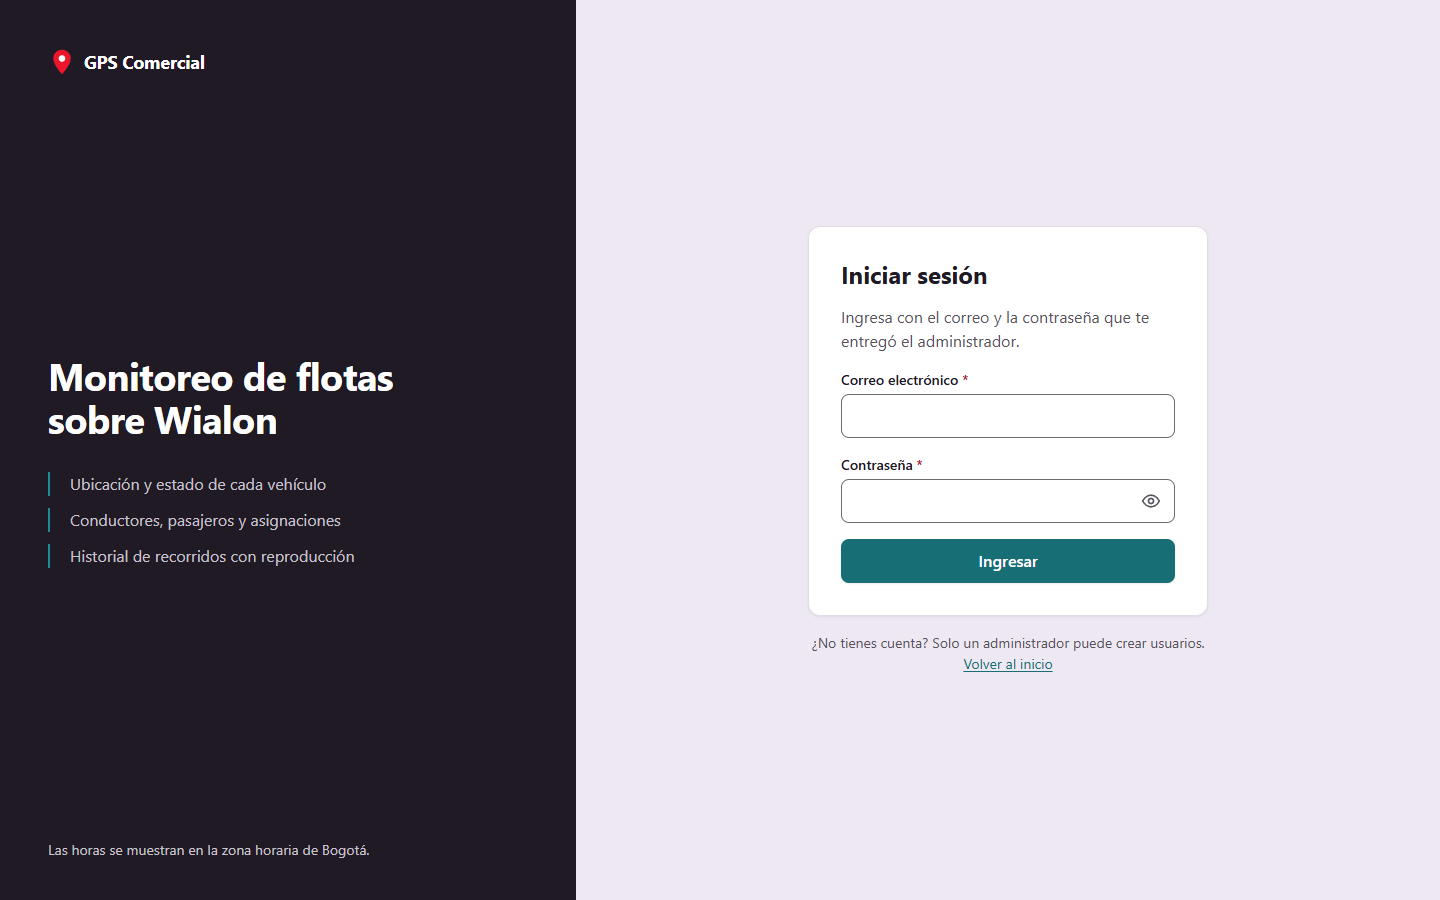
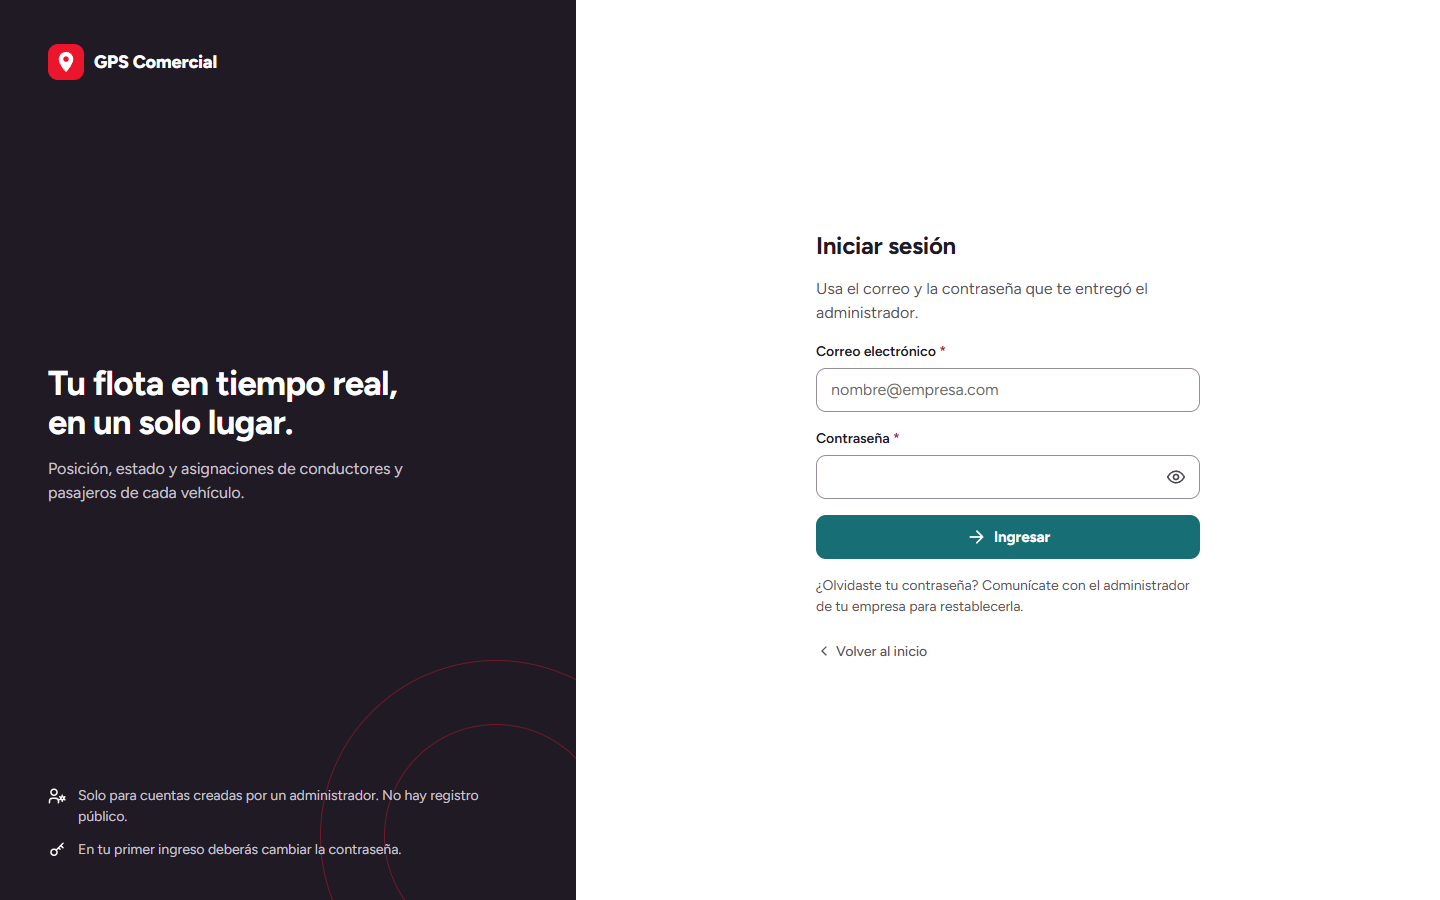
docs: document the panel and login redesign and record its integration
README marks the dashboard, vehicles and history captures as the previous panel
and refreshes the login capture; design-system.md adds the panel redesign section;
estado.md and checklist.md record the review, local checks and pending decisions.

diff --git a/docs/estado.md b/docs/estado.md
@@ -1,7 +1,48 @@
 # Estado actual y relevo
-Snapshot: 2026-11-10 09:35 America/Bogota. Verificar siempre Git, archivos y procesos antes de continuar.
+Snapshot: 2026-11-10 12:05 America/Bogota. Verificar siempre Git, archivos y procesos antes de continuar.
 
-## Relevo — 2026-11-10 09:35 America/Bogota
+## Relevo — 2026-11-10 12:05 America/Bogota
+- **Landing, detalles de acabado (PR #12, commit `a22006d`, merge `42661a4`):**
+  - los enlaces del menú llevan al contenido;
+  - desplazamiento suave;
+  - menú móvil con líneas suaves;
+  - sin hueco en «Control de tu flota».
+  - Verificado en producción a las 09:50.
+- **Rediseño del panel y del login (PR #13), integrado por petición de Juana («commit, push y merge a producción»):**
+  - Origen: rama `feat/dashboard-redesign` del chat paralelo (24 commits, `71aaee2`…`526f614`), que incluye `style/panel-login-visual` (`ebe3ebe`).
+  - Rama de integración `feat/panel-redesign`, con `main` incorporado mediante merge, sin rebase ni reescritura. El único archivo tocado en ambos lados, `layouts.css`, se fusionó sin conflicto.
+  - Revisión del alcance:
+    - fuera de `frontend/src` solo cambian `docs/panel-theme.md` y `e2e/flows.spec.ts` (menú ⋮);
+    - sin backend, dependencias, `vercel.json` ni variables;
+    - las comprobaciones `hasPermission` se conservan en todos los archivos (mismo número o más);
+    - login y cambio de contraseña: mismo formulario, esquema y redirecciones. Cambios visibles: resumen de errores, aviso de coincidencia en vivo y «Cancelar y volver al panel» cuando la contraseña no es temporal (con contraseña temporal sigue «Cancelar y cerrar sesión»).
+  - El tema está acotado a `.app-shell` y `.auth-page`. Comprobado que la landing no usa Figtree. Las fuentes son propias y la CSP sigue en `font-src 'self'`.
+  - Comprobado en local sobre la rama integrada:
+    - `oxlint` sin avisos y `npm run build` (incluye `tsc`) correctos;
+    - Vitest: 21 archivos, 172 de 172 pruebas;
+    - instancia **simulada** (`FLEET_GATEWAY=fake`, puerto 8001) con la landing a 1440, 768 y 360 px y las 9 pantallas privadas a 1440, 834 y 390 px: sin desplazamiento horizontal y con 0 errores de consola;
+    - cerrar sesión lleva a `/login`, y sin sesión `/app/dashboard` también redirige a `/login`.
+  - `e2e/screenshots.spec.ts`: el panel nuevo muestra un mapa y nombres en «Requiere atención», que ahora se enmascaran. Comprobado con datos simulados.
+  - README:
+    - la captura del login muestra el diseño actual;
+    - las de Dashboard, Vehículos e Historial se marcan como «panel anterior» hasta regenerarlas con datos reales (`E2E_SCREENSHOTS=1`, credenciales en el entorno de Juana, nunca en el chat);
+    - `design-system.md` añade la sección del rediseño, que sustituye a la anterior en el área privada.
+  - No probado: lector de pantalla real y e2e contra Wialon (`flows.spec.ts` adaptado al menú ⋮, sin ejecutar).
+  - Decisiones pendientes de Juana (Historial):
+    - conservar o quitar la línea fina del gráfico de velocidad;
+    - mostrar «24 h» o «1 d 0 h».
+- **Sin confirmación todavía:**
+  - renovación del `WIALON_TOKEN`;
+  - envío del correo de entrega.
+- **Lighthouse de la landing actual: sin medir** (UX-07 EN CURSO).
+- **Procesos locales:**
+  - Vite en 5175 y 5176 (worktree `gps-comercial-landing`);
+  - API simulada en 8001;
+  - backend local en 8000;
+  - servidores temporales del chat paralelo en 5180.
+  - Se pueden detener sin pérdida.
+
+## Relevo anterior — 2026-11-10 09:35 America/Bogota
 - **Landing cerrada por Juana:** se queda como está. Diseño basado en Claude Design.
   - PR #9 (merge `7e61cb3`) adoptó el diseño.
   - PR #10 (merge `18ffe96`) aplicó tres ajustes pedidos por Juana:
@@ -16,7 +57,7 @@ Snapshot: 2026-11-10 09:35 America/Bogota. Verificar siempre Git, archivos y pro
   - No hay más cambios estéticos previstos en la landing.
 - **README:** se retiraron las capturas de la landing (Juana las veía muy cargadas) y se borraron los archivos `docs/screenshots/landing*.png`. `e2e/screenshots.spec.ts` ya no las genera. Las capturas del panel no cambian.
 - **Lighthouse de la landing actual: sin medir.** Las cifras del README corresponden a una versión anterior. UX-07 sigue EN CURSO hasta remedir.
-- **Dashboard/login: en curso en el chat paralelo.**
+- **Dashboard/login: en curso en el chat paralelo** (integrado después en PR #13; ver relevo superior).
   - Worktree `../gps-comercial-panel`, rama `style/panel-login-visual`, alcance exclusivamente visual.
   - A las 09:35 tenía 8 commits, de `71aaee2` a `bd8dcc2`.
     - Tocan `styles/panel-theme.css` (nuevo), `auth.css`, `dashboard.css`, `AppShell.tsx`, `ChangePasswordPage.tsx` (1 línea), `LoginPage.tsx` (64 líneas) y `docs/panel-theme.md`.

diff --git a/README.md b/README.md
@@ -19,11 +19,16 @@ general se muestra a escala de país.
 La landing pública se consulta directamente en https://gpscomercial.juanagonzalez.dev. Su diseño final, basado en Claude
 Design (PR #9 y #10, 2026-11-10), está descrito en [docs/design-system.md](docs/design-system.md).
 
-| Dashboard | Vehículos: lista y mapa con clustering |
+> El panel y el login se rediseñaron a partir de Claude Design (PR #13, 2026-11-10; detalle en
+> [docs/panel-theme.md](docs/panel-theme.md)). La captura del **login** ya muestra el diseño actual. Las de
+> **Dashboard, Vehículos e Historial** son del **panel anterior** al rediseño, hasta regenerarlas con datos reales.
+> Mismas funciones, distinta presentación.
+
+| Dashboard (panel anterior) | Vehículos: lista y mapa con clustering (panel anterior) |
 |---|---|
 | ![Dashboard](docs/screenshots/dashboard.png) | ![Vehículos](docs/screenshots/vehiculos-mapa.png) |
 
-| Historial con reproducción y velocidad | Login |
+| Historial con reproducción y velocidad (panel anterior) | Login (diseño actual) |
 |---|---|
 | ![Historial](docs/screenshots/historial.png) | ![Login](docs/screenshots/login.png) |
 
@@ -238,10 +243,20 @@ Documento completo, con la tabla de contraste medida: [docs/design-system.md](do
 | Color | Rol | Contraste y uso |
 |---|---|---|
 | `#EEE8F2` | Fondo de la aplicación | Solo con texto oscuro `#1F1A24` (14,18:1) |
-| `#EB162C` | Marca y acento: logo, indicador activo, anillo de foco de 3 px | 4,48:1 sobre blanco. Solo elementos no textuales o texto grande |
+| `#EB162C` | Marca y acento: logo, indicador activo, anillo de foco de 3 px en la landing | 4,48:1 sobre blanco. Solo elementos no textuales o texto grande |
 | `#A81A2B` | Peligro, error y "Sin señal" | Texto blanco 7,37:1. Las acciones destructivas usan este color y nunca el primario |
 | `#1E8C93` | "En movimiento", éxito, iconos y marcadores | Los botones primarios usan su derivado oscuro `#176F75` (blanco 5,89:1) |
 | `#6B6B6B` | Texto secundario sobre blanco (5,33:1) y "Detenido" | — |
+
+**Panel y login (rediseño de Claude Design, 2026-11-10):**
+- Tema acotado a `.app-shell` y `.auth-page`; la landing conserva sus tokens.
+- Figtree y JetBrains Mono servidas desde el propio dominio (la CSP sigue en `font-src 'self'`).
+- Menú lateral blanco de 256 px en escritorio, riel de 88 px en tablet, y barra con cajón en móvil.
+- Ajustes de accesibilidad sobre el diseño:
+  - foco turquesa sólido de 2 px (`#176F75`, 5,89:1);
+  - bordes de campo `#958D9C` (3,20:1);
+  - texto secundario sobre lavanda `#57525C` (6,31:1).
+- Detalle y desviaciones en [docs/panel-theme.md](docs/panel-theme.md).
 
 **Jerarquía y estados:**
 - Cada estado combina **icono + texto + color**, e incluso forma de marcador distinta en el mapa: círculo con flecha, cuadrado y rombo con "!".
@@ -252,7 +267,7 @@ Documento completo, con la tabla de contraste medida: [docs/design-system.md](do
 - Foco visible y enlace "Saltar al contenido".
 - Etiquetas y errores asociados a cada campo.
 - Diálogos nativos con el foco atrapado y devuelto al cerrar.
-- Gráficas con tabla alternativa.
+- Gráficas con texto alternativo; la de velocidad añade una tabla de datos.
 - Respeto de `prefers-reduced-motion`.
 - Diseño mobile-first: en 360 px las tablas se convierten en tarjetas y el mapa alterna con la lista.
 

diff --git a/docs/checklist.md b/docs/checklist.md
@@ -86,7 +86,7 @@ Preparar el paquete no marca F0 ni ningún requisito de aplicación como termina
 | SEG-10 | Obligatorio | SSRF y manejo de condiciones excepcionales — El backend solo llama al host de Wialon configurado (sin URLs controladas por el usuario); manejo centralizado de excepciones que nunca exponga *stack traces* ni detalles internos al cliente. | VERIFICADO | 2026-11-09: host Wialon fijo; 500 con request_id y sin trazas (test_review_fixes). |
 | SEG-11 | Obligatorio | Protección CSRF — Si usas cookies para la sesión, **DEBES** implementar protección CSRF. | VERIFICADO | 2026-11-09: double-submit + Origin; CSRF estable al refrescar (pytest; Wialon real CSRF falso 403). |
 | UX-01 | Obligatorio | Diseño **responsive mobile-first**: debe verse y usarse bien en móvil (360 px), tablet y escritorio. El mapa y las tablas deben tener un comportamiento pensado para pantallas pequeñas (no basta con que "no se rompan"). | VERIFICADO | 2026-11-09: 360/768/1366 px revisados con Playwright; tarjetas en móvil y conmutador Lista/Mapa. |
-| UX-02 | Obligatorio | Apariencia **profesional y atractiva**, con sistema de diseño coherente: tipografía, escala de espaciado, radios, sombras y componentes consistentes. | VERIFICADO | 2026-11-09: sistema de diseño (tokens, componentes) documentado en docs/design-system.md. |
+| UX-02 | Obligatorio | Apariencia **profesional y atractiva**, con sistema de diseño coherente: tipografía, escala de espaciado, radios, sombras y componentes consistentes. | VERIFICADO | 2026-11-09: sistema de diseño (tokens, componentes) documentado en docs/design-system.md. 2026-11-10: panel y login rediseñados según Claude Design (PR #13), tema acotado y documentado en docs/panel-theme.md; 9 pantallas a 1440/834/390 px sin desbordamiento ni errores de consola (datos simulados). |
 | UX-03 | Obligatorio | **Accesibilidad**: contraste de texto de al menos **WCAG AA**, navegación por teclado, foco visible, etiquetas en formularios, `alt` en imágenes, y uso correcto de HTML semántico y atributos ARIA. | VERIFICADO | 2026-11-09: contraste AA medido, foco visible, etiquetas, semántica; Lighthouse accesibilidad 100 en la landing. |
 | UX-04 | Obligatorio | Retroalimentación al usuario en todas las acciones: *skeletons* o indicadores de carga, notificaciones (toasts), confirmaciones en acciones destructivas, mensajes de error útiles. | VERIFICADO | 2026-11-09: skeletons, toasts, confirmación en acciones destructivas, errores útiles. |
 | UX-05 | Obligatorio | Navegación clara y adaptada al rol: el menú y las vistas cambian según los permisos. | VERIFICADO | 2026-11-09: menú y acciones según permisos (e2e Playwright+Chrome visualizador). |
